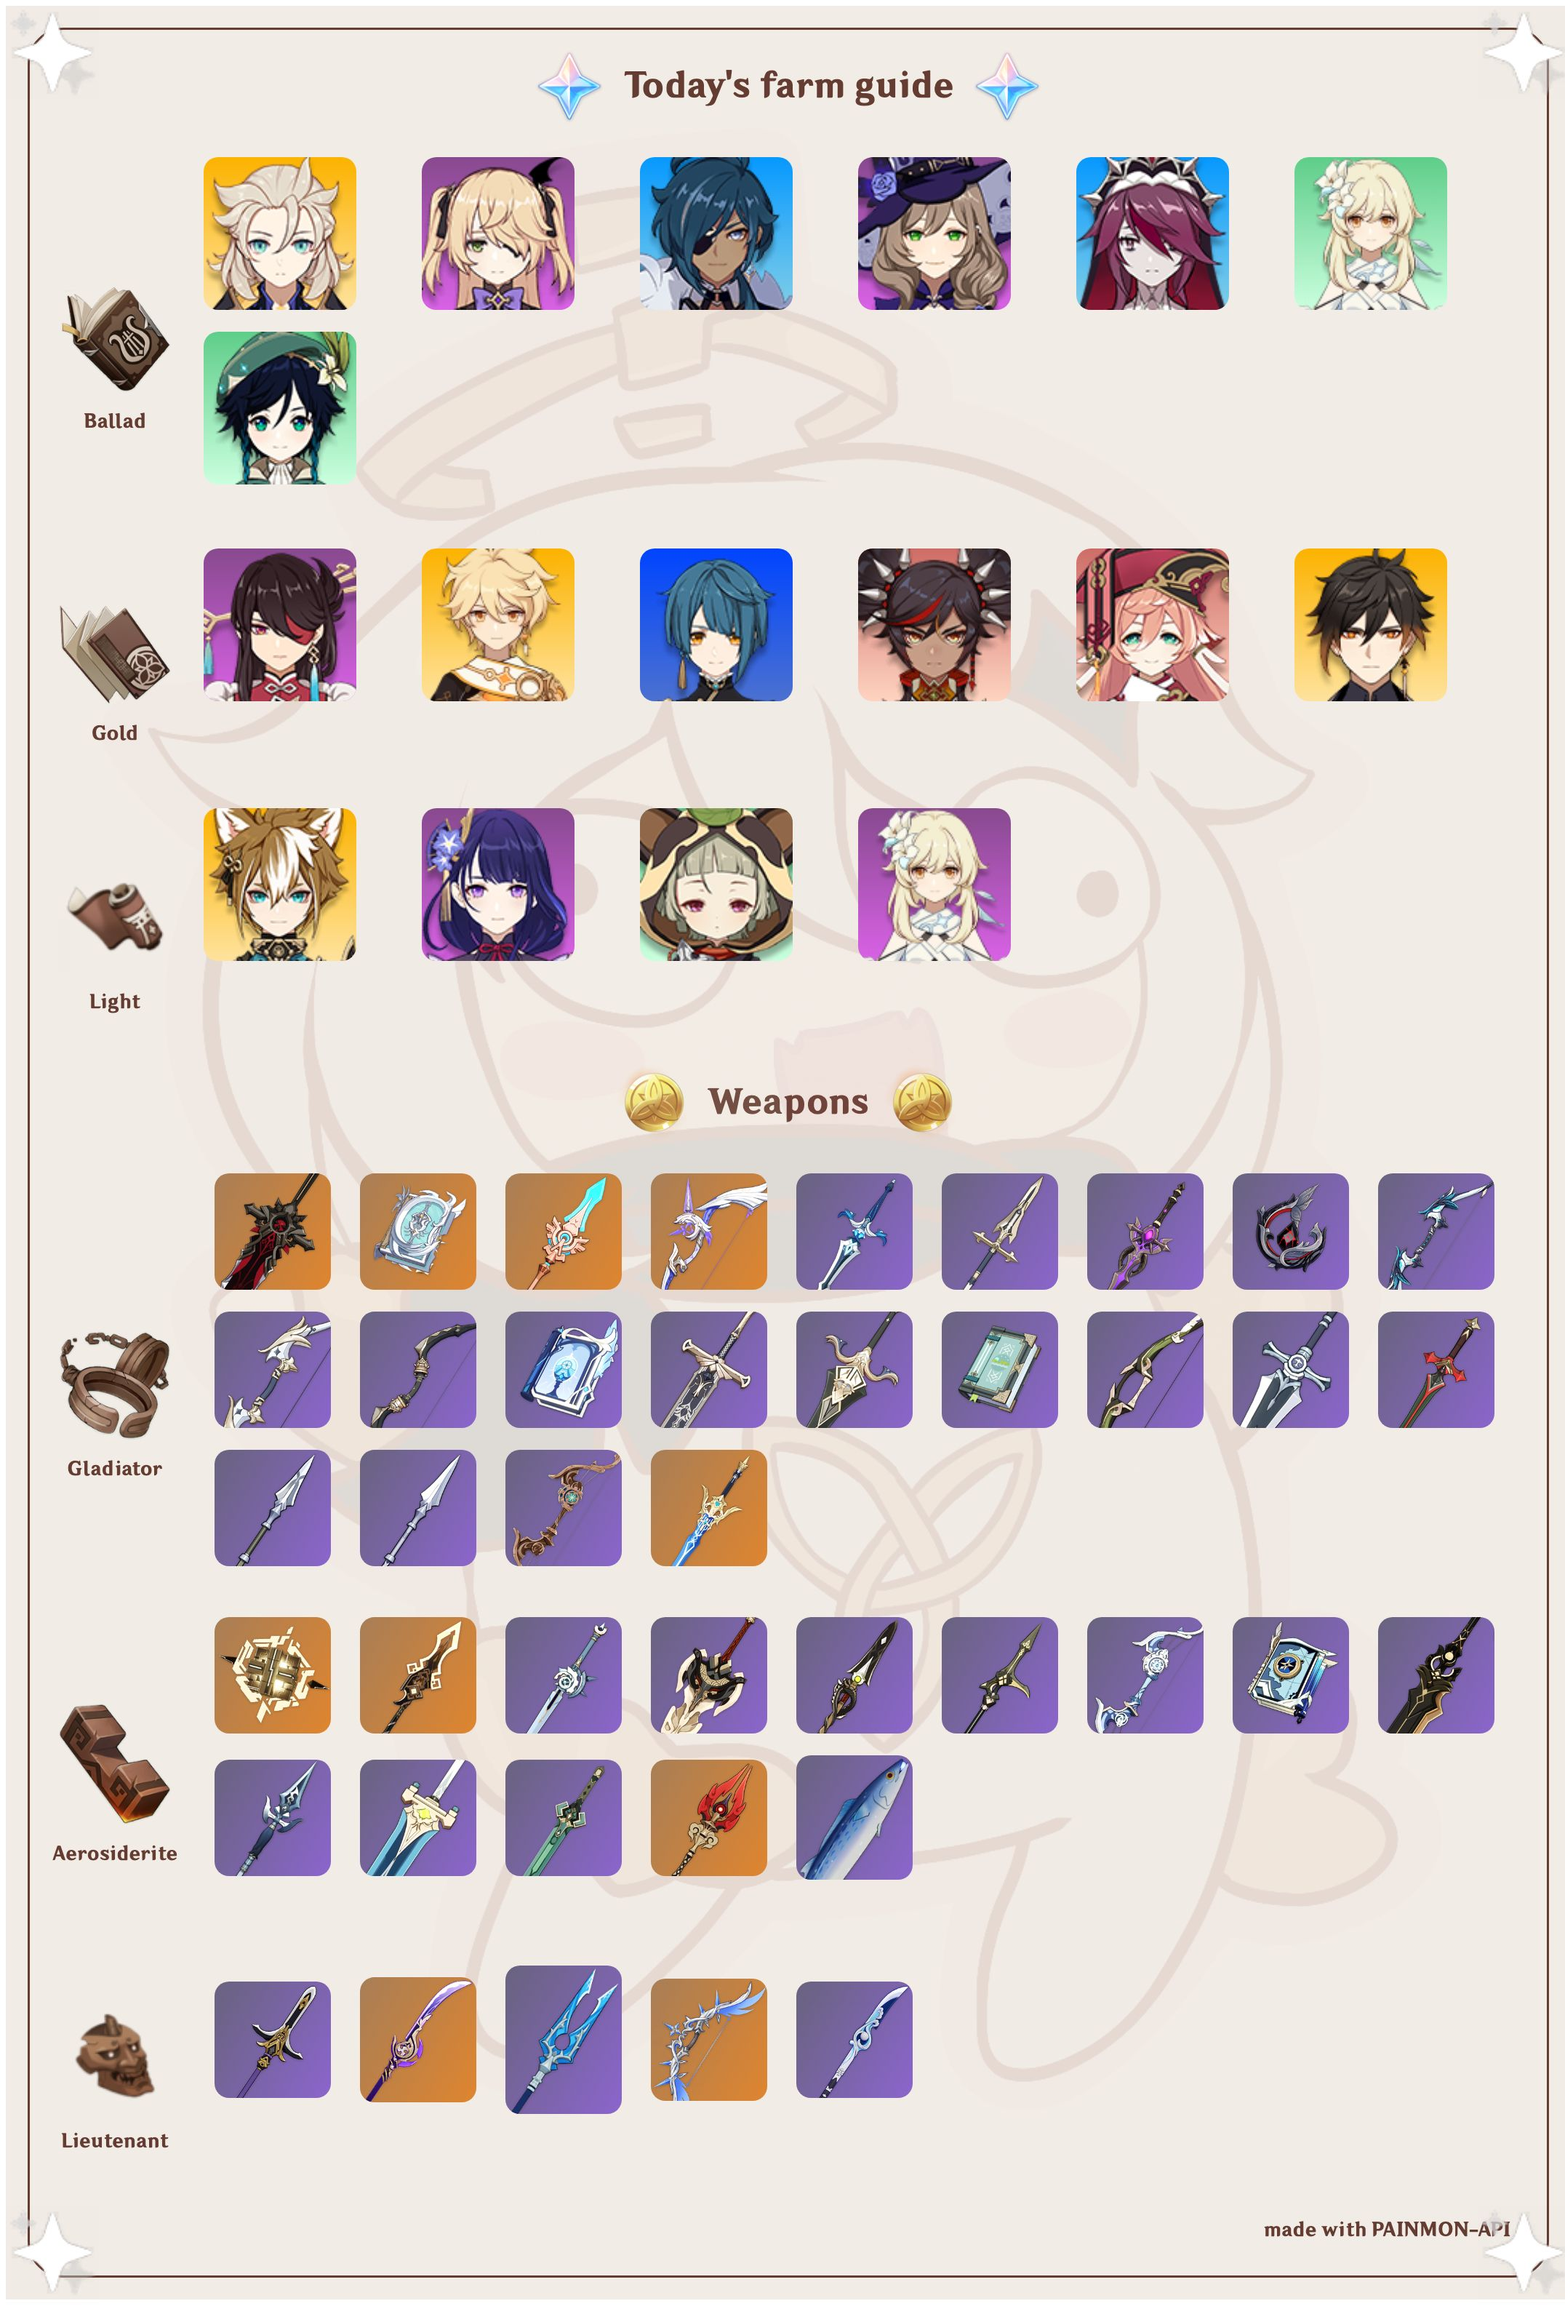
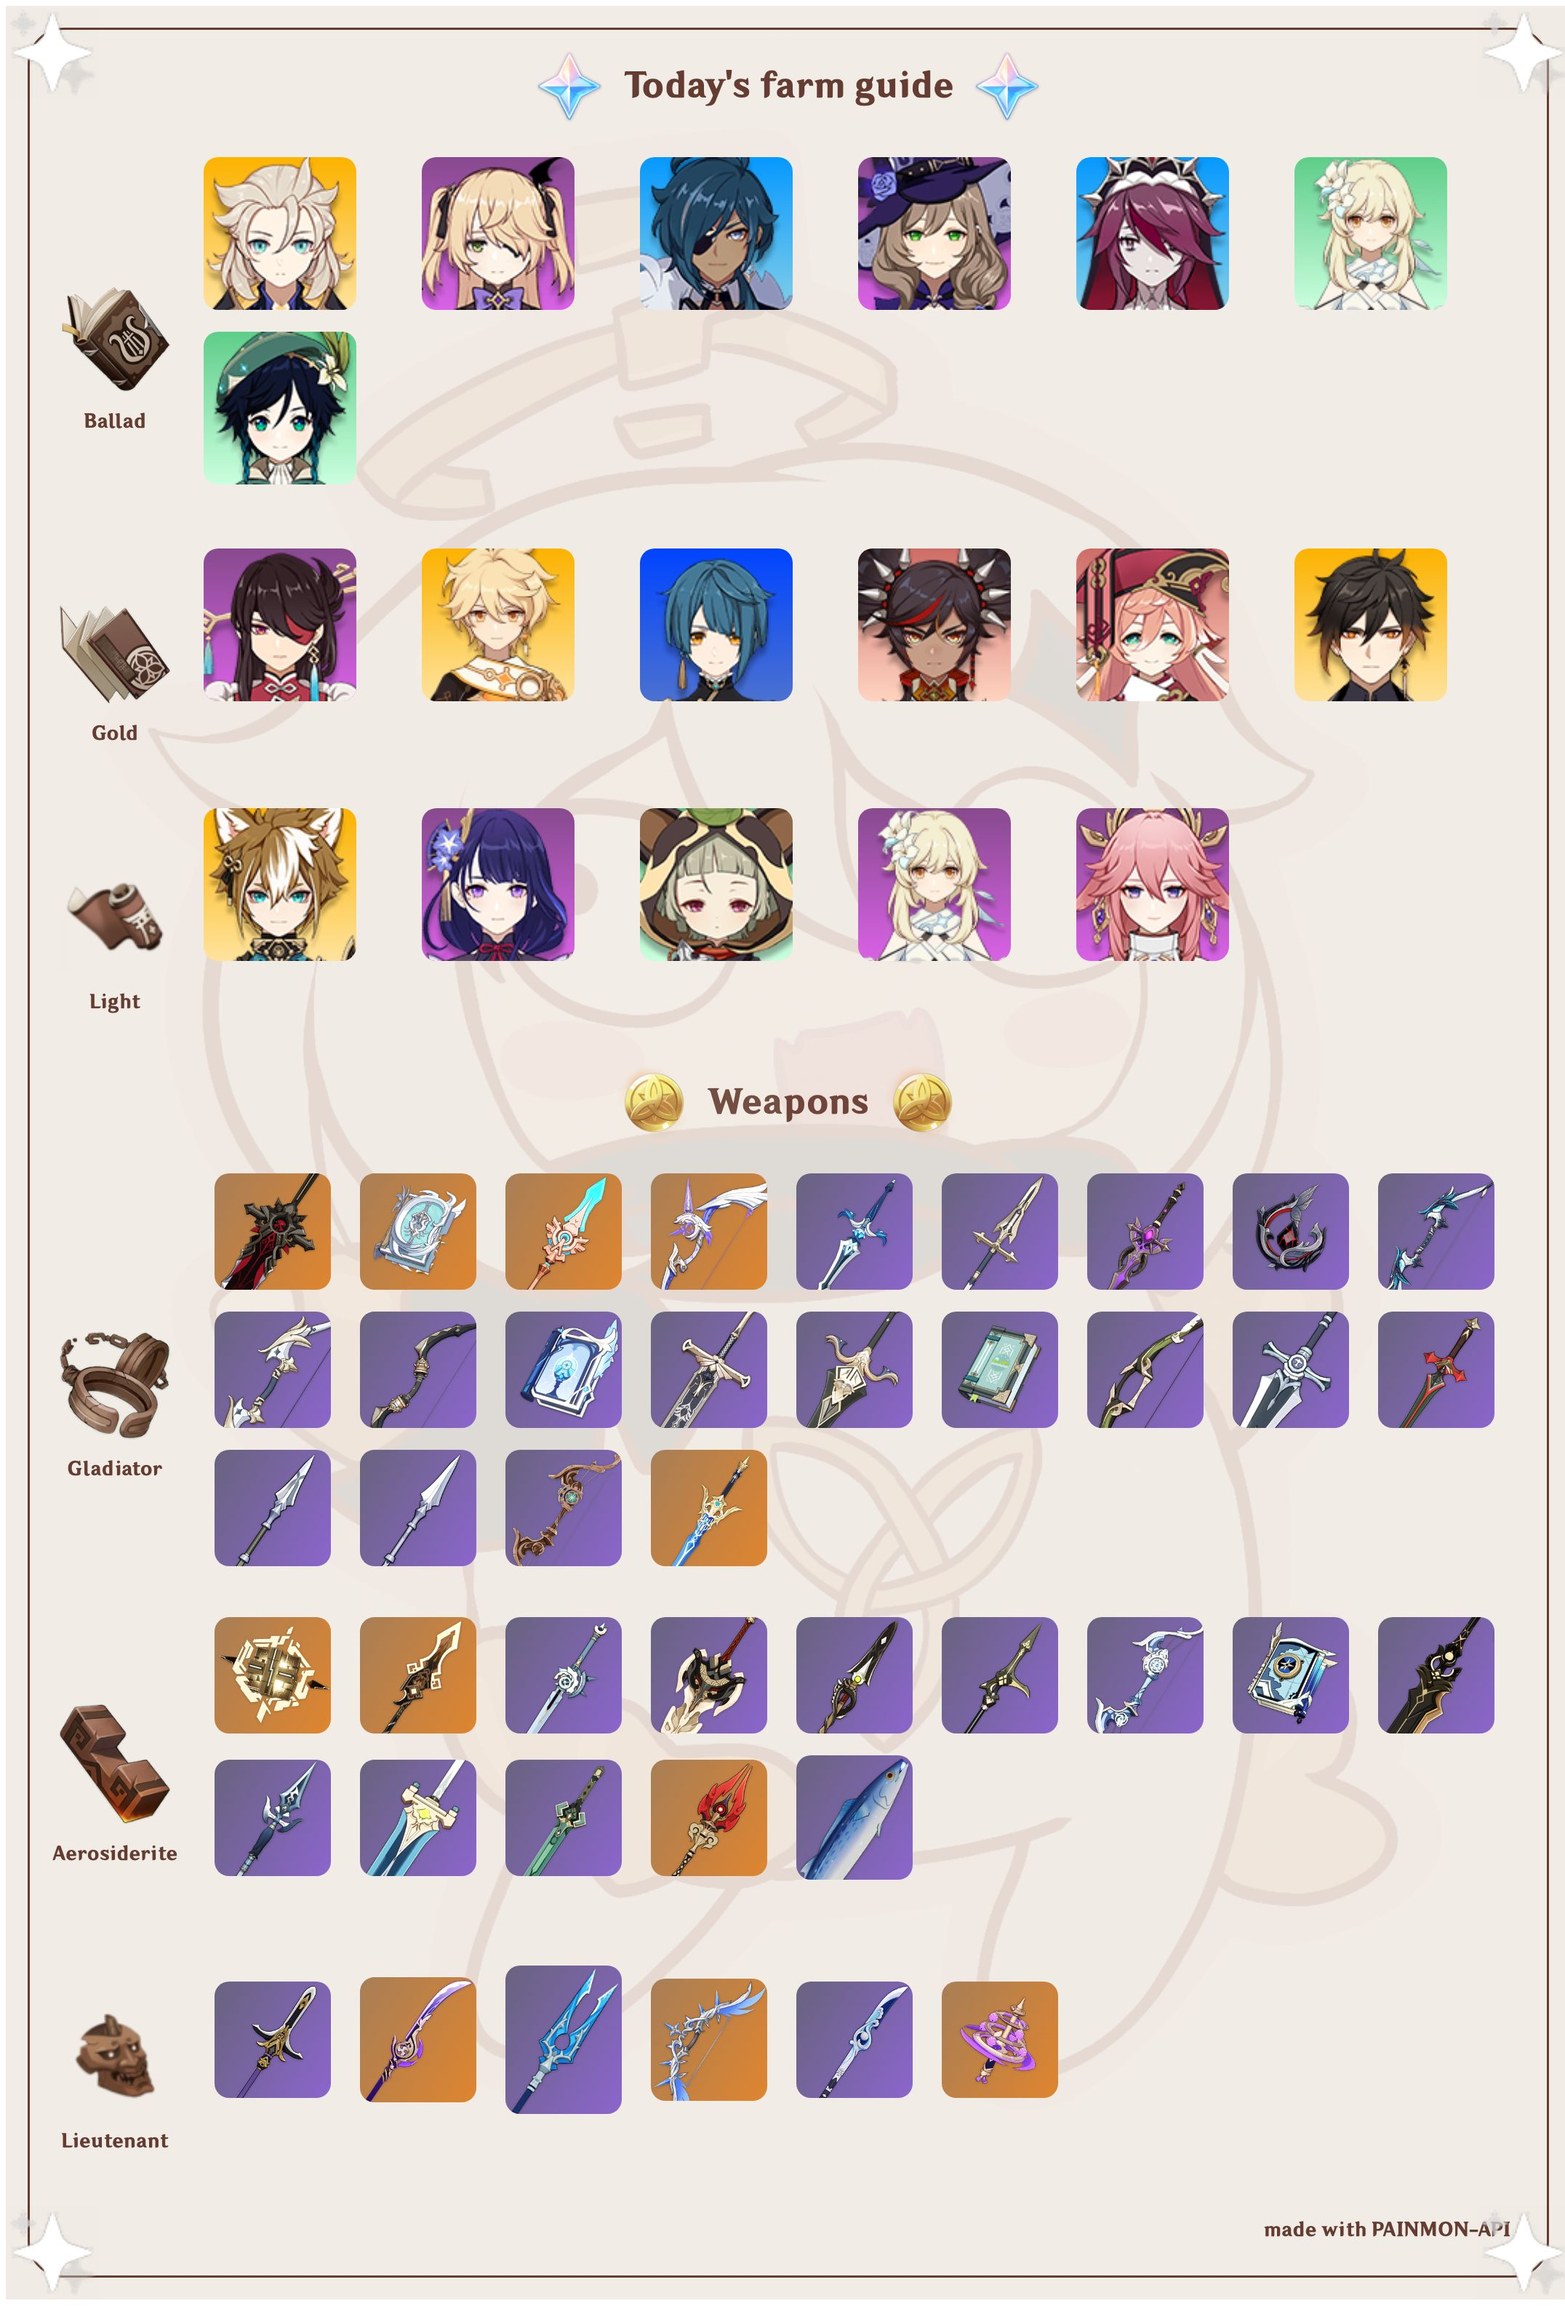
Added Yae's weapon and Yae Miko data

Changed region(s): [[0.6849, 0.3435, 0.8095, 0.4372], [0.5915, 0.8432, 0.6849, 0.9369]]

diff --git a/src/data/weapons.ts b/src/data/weapons.ts
@@ -7,7 +7,7 @@ export const WEAPONS = {
         id: "wolfs_gravestone",
         rarity: 5,
         atk: 46,
-        secondary: "ATK",
+        secondary: "ATK", 
         type: weapons.claymore,
         source: "wish",
         ascension: [
@@ -8176,4 +8176,122 @@ export const WEAPONS = {
             },
         ],
     },
+    kaguras_verity: {
+        name: "Kagura's Verity",
+        id: 'kaguras_verity',
+        rarity: 5,
+        atk: 46,
+        secondary: 'CRIT DMG',
+        type: weapons.catalyst,
+        source: 'wish',
+        ascension: [
+          {
+            items: [
+              { item: itemList.mask_of_the_wicked_lieutenant, amount: 5 },
+              { item: itemList.concealed_claw, amount: 5 },
+              { item: itemList.spectral_husk, amount: 3 },
+            ],
+            mora: 10000,
+          },
+          {
+            items: [
+              { item: itemList.mask_of_the_tigers_bite, amount: 5 },
+              { item: itemList.concealed_claw, amount: 18 },
+              { item: itemList.spectral_husk, amount: 12 },
+            ],
+            mora: 20000,
+          },
+          {
+            items: [
+              { item: itemList.mask_of_the_tigers_bite, amount: 9 },
+              { item: itemList.concealed_unguis, amount: 9 },
+              { item: itemList.spectral_heart, amount: 9 },
+            ],
+            mora: 30000,
+          },
+          {
+            items: [
+              { item: itemList.mask_of_the_one_horned, amount: 5 },
+              { item: itemList.concealed_unguis, amount: 18 },
+              { item: itemList.spectral_heart, amount: 14 },
+            ],
+            mora: 45000,
+          },
+          {
+            items: [
+              { item: itemList.mask_of_the_one_horned, amount: 9 },
+              { item: itemList.concealed_talon, amount: 14 },
+              { item: itemList.spectral_nucleus, amount: 9 },
+            ],
+            mora: 55000,
+          },
+          {
+            items: [
+              { item: itemList.mask_of_the_kijin, amount: 6 },
+              { item: itemList.concealed_talon, amount: 27 },
+              { item: itemList.spectral_nucleus, amount: 18 },
+            ],
+            mora: 65000,
+          },
+        ],
+      },
+      oathsworn_eye: {
+        name: 'Oathsworn Eye',
+        id: 'oathsworn_eye',
+        rarity: 4,
+        atk: 44,
+        secondary: 'ATK',
+        type: weapons.catalyst,
+        source: 'wish',
+        ascension: [
+          {
+            items: [
+              { item: itemList.coral_branch_of_a_distant_sea, amount: 3 },
+              { item: itemList.concealed_claw, amount: 3 },
+              { item: itemList.spectral_husk, amount: 2 },
+            ],
+            mora: 5000,
+          },
+          {
+            items: [
+              { item: itemList.jeweled_branch_of_a_distant_sea, amount: 3 },
+              { item: itemList.concealed_claw, amount: 12 },
+              { item: itemList.spectral_husk, amount: 8 },
+            ],
+            mora: 15000,
+          },
+          {
+            items: [
+              { item: itemList.jeweled_branch_of_a_distant_sea, amount: 6 },
+              { item: itemList.concealed_unguis, amount: 6 },
+              { item: itemList.spectral_heart, amount: 6 },
+            ],
+            mora: 20000,
+          },
+          {
+            items: [
+              { item: itemList.jade_branch_of_a_distant_sea, amount: 3 },
+              { item: itemList.concealed_unguis, amount: 12 },
+              { item: itemList.spectral_heart, amount: 9 },
+            ],
+            mora: 30000,
+          },
+          {
+            items: [
+              { item: itemList.jade_branch_of_a_distant_sea, amount: 6 },
+              { item: itemList.concealed_talon, amount: 9 },
+              { item: itemList.spectral_nucleus, amount: 6 },
+            ],
+            mora: 35000,
+          },
+          {
+            items: [
+              { item: itemList.golden_branch_of_a_distant_sea, amount: 4 },
+              { item: itemList.concealed_talon, amount: 18 },
+              { item: itemList.spectral_nucleus, amount: 12 },
+            ],
+            mora: 45000,
+          },
+        ],
+      },
 };

diff --git a/src/data/characters.ts b/src/data/characters.ts
@@ -3462,6 +3462,151 @@ export const CHARACTERS = {
             boss: itemList.tusk_of_monoceros_caeli,
         },
     },
+    yae_miko: {
+        id: 'yae_miko',
+        name: 'Yae Miko',
+        rarity: 5,
+        weapon: weapons.catalyst,
+        stats: {
+          hp: 10372,
+          atk: 340,
+          def: 569,
+        },
+        ascension: [
+          {
+            items: [
+              {
+                item: itemList.vajrada_amethyst_sliver,
+                amount: 1,
+              },
+              {
+                item: 'none',
+                amount: null,
+              },
+              {
+                item: itemList.sea_ganoderma,
+                amount: 3,
+              },
+              {
+                item: itemList.old_handguard,
+                amount: 3,
+              },
+            ],
+            mora: 20000,
+          },
+          {
+            items: [
+              {
+                item: itemList.vajrada_amethyst_fragment,
+                amount: 3,
+              },
+              {
+                item: itemList.dragonheirs_false_fin,
+                amount: 2,
+              },
+              {
+                item: itemList.sea_ganoderma,
+                amount: 10,
+              },
+              {
+                item: itemList.old_handguard,
+                amount: 15,
+              },
+            ],
+            mora: 40000,
+          },
+          {
+            items: [
+              {
+                item: itemList.vajrada_amethyst_fragment,
+                amount: 6,
+              },
+              {
+                item: itemList.dragonheirs_false_fin,
+                amount: 4,
+              },
+              {
+                item: itemList.sea_ganoderma,
+                amount: 20,
+              },
+              {
+                item: itemList.kageuchi_handguard,
+                amount: 12,
+              },
+            ],
+            mora: 60000,
+          },
+          {
+            items: [
+              {
+                item: itemList.vajrada_amethyst_chunk,
+                amount: 3,
+              },
+              {
+                item: itemList.dragonheirs_false_fin,
+                amount: 8,
+              },
+              {
+                item: itemList.sea_ganoderma,
+                amount: 30,
+              },
+              {
+                item: itemList.kageuchi_handguard,
+                amount: 18,
+              },
+            ],
+            mora: 80000,
+          },
+          {
+            items: [
+              {
+                item: itemList.vajrada_amethyst_chunk,
+                amount: 6,
+              },
+              {
+                item: itemList.dragonheirs_false_fin,
+                amount: 12,
+              },
+              {
+                item: itemList.sea_ganoderma,
+                amount: 45,
+              },
+              {
+                item: itemList.famed_handguard,
+                amount: 12,
+              },
+            ],
+            mora: 100000,
+          },
+          {
+            items: [
+              {
+                item: itemList.vajrada_amethyst_gemstone,
+                amount: 6,
+              },
+              {
+                item: itemList.dragonheirs_false_fin,
+                amount: 20,
+              },
+              {
+                item: itemList.sea_ganoderma,
+                amount: 60,
+              },
+              {
+                item: itemList.famed_handguard,
+                amount: 24,
+              },
+            ],
+            mora: 120000,
+          },
+        ],
+        material: {
+          material: [itemList.old_handguard, itemList.kageuchi_handguard, itemList.famed_handguard],
+          book: [itemList.teachings_of_light, itemList.guide_to_light, itemList.philosophies_of_light],
+          boss: itemList.the_meaning_of_aeons,
+        },
+        element: elements.electro,
+      },
     yanfei: {
         name: "Yanfei",
         id: "yanfei",

diff --git a/src/data/items.ts b/src/data/items.ts
@@ -530,6 +530,11 @@ export const ITEMS = {
         rarity: 4,
         parent: "shivada_jade_sliver",
     },
+    the_meaning_of_aeons: {
+        id: 'the_meaning_of_aeons',
+        name: 'The Meaning of Aeons',
+        rarity: 5,
+      },
     teachings_of_diligence: {
         id: "teachings_of_diligence",
         name: "Teachings of Diligence",
@@ -882,5 +887,11 @@ export const ITEMS = {
         name: "Riftborn Regalia",
         rarity: 5,
         parent: "prithiva_topaz_sliver",
+    },
+    dragonheirs_false_fin: {
+        id: 'dragonheirs_false_fin',
+        name: "Dragonheir's False Fin",
+        rarity: 5,
+        parent: 'shivada_jade_sliver',
     },
 };
